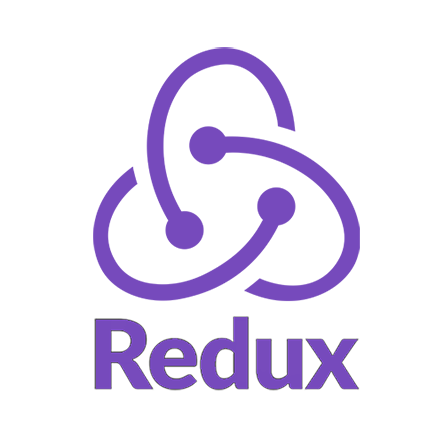
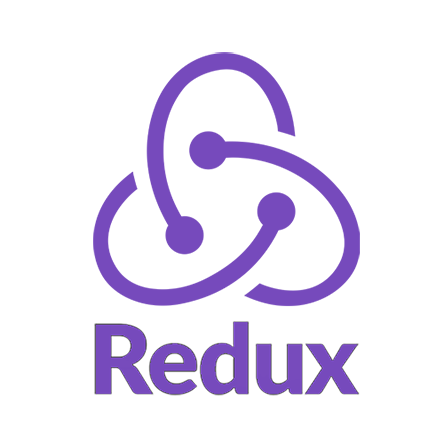
redux height adjustment

diff --git a/index.html b/index.html
@@ -570,7 +570,7 @@
             <div class="card-reveal">
               <span class="card-title grey-text text-darken-4 sans-narrow">Code Buddy<i class="material-icons right">close</i></i></span>
               <br />
-              <p class="sans-narrow">For this project I made my own version of REPL web applications like "CodePen" or "JS Bin". I used HTML, CSS, JavaScript, and jQuery to build out the design and functionality of the app. I had a lot of fun tinkering with several design aspects of the site including things like the different code colors, container badges, background color, logo, and more.</p>
+              <p class="sans-narrow">For this project I made my own version of REPL web applications like "CodePen" or "JS Bin". I used HTML, CSS, JavaScript, and jQuery to build out the design and functionality of the app. I had a lot of fun tinkering with several design aspects of the site including things like the different code colors, container badges, background color, logo, and more. This is a great web application that new developers can easily use to practice some of their new coding skills.</p>
             </div>
             <!-- END PROJECT DESCRIPTION -->
           </div>
